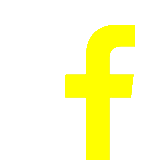
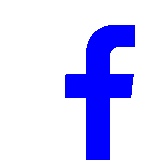
Edicion_cambio general color_ +exihib

Changed region(s): [[0.4062, 0.1562, 0.8438, 1.0]]

diff --git a/css/style.css b/css/style.css
@@ -1493,7 +1493,7 @@ div[style*="chrome-extension://gofhjkjmkpinhpoiabjplobcaignabnl"] {
 		.pageContentText h2 {font-family: Dosis, sans-serif ;font-size: 22px ;font-weight: normal;font-style: normal;text-decoration: none;}
 		body {background-color: #FFFFFF;color: black;}
 		.watermark-content {background-color: transparent;}
-		.palette-color1 {color: #E3E3E3;}.palette-background-color1 {background-color: #E3E3E3;}.palette-color1-1 {color: #aaaaaa;}.palette-background-color1-1 {background-color: #aaaaaa;}.palette-color1-2 {color: #727272;}.palette-background-color1-2 {background-color: #003cff;}.palette-color1-3 {color: #eaeaea;}.palette-background-color1-3 {background-color: #eaeaea;}.palette-color1-4 {color: #f1f1f1;}.palette-background-color1-4 {background-color: #f1f1f1;}.palette-color2 {color: #F7F7F7;}.palette-background-color2 {background-color: #F7F7F7;}.palette-color2-1 {color: #b9b9b9;}.palette-background-color2-1 {background-color: #b9b9b9;}.palette-color2-2 {color: #7c7c7c;}.palette-background-color2-2 {background-color: #7c7c7c;}.palette-color2-3 {color: #f9f9f9;}.palette-background-color2-3 {background-color: #f9f9f9;}.palette-color2-4 {color: #fbfbfb;}.palette-background-color2-4 {background-color: #fbfbfb;}.palette-color3 {color: #8C8C8C;}.palette-background-color3 {background-color: #8C8C8C;}.palette-color3-1 {color: #696969;}.palette-background-color3-1 {background-color: #696969;}.palette-color3-2 {color: #464646;}.palette-background-color3-2 {background-color: #464646;}.palette-color3-3 {color: #a9a9a9;}.palette-background-color3-3 {background-color: #a9a9a9;}.palette-color3-4 {color: #c6c6c6;}.palette-background-color3-4 {background-color: #c6c6c6;}.palette-color4 {color: #F5F5F5;}.palette-background-color4 {background-color: #F5F5F5;}.palette-color4-1 {color: #b8b8b8;}.palette-background-color4-1 {background-color: #b8b8b8;}.palette-color4-2 {color: #7b7b7b;}.palette-background-color4-2 {background-color: #7b7b7b;}.palette-color4-3 {color: #f8f8f8;}.palette-background-color4-3 {background-color: #f8f8f8;}.palette-color4-4 {color: #ffff00;}.palette-background-color4-4 {background-color: #fafafa;}.header {color: #0000ff;}.header a {color: #000000;}.header a.link {color: #000000 !important;}.header h1, .header h1 a {color: #0000ff;}.header h2, .header h2 a {color: #000000;}.column1 {color: #000000;}.column1 a {color: #0000FF;}.column1 a.link {color: #0000FF !important;}.column1 h1, .column1 h1 a {color: #444444;}.column1 h2, .column1 h2 a {color: #2D2D2D;}.content {color: #696969;}.content a {color: #8C8C8C;}.content a.link {color: #8C8C8C !important;}.content h1, .content h1 a {color: #696969;}.content h2, .content h2 a {color: #696969;}.column2 {color: #000000;}.column2 a {color: #0000FF;}.column2 a.link {color: #0000FF !important;}.column2 h1, .column2 h1 a {color: #444444;}.column2 h2, .column2 h2 a {color: #2D2D2D;}.footer {color: #0000ff;}.footer a {color: #0000ff;}.footer a.link {color: #0000ff !important;}.footer h1, .footer h1 a {color: #FFFFFF;}.footer h2, .footer h2 a {color: #FFFFFF;}.content div.ecwid-productBrowser-auth a {color: #8C8C8C;font-size: 13px ;font-family: Dosis, sans-serif ;}.content .ecwid-productBrowser-head {color: #696969;}.content div.ecwid-productBrowser-subcategories-categoryName span {color: #696969;}.content .ecwid-productBrowser-categoryPath span.ecwid-productBrowser-categoryPath-categoryLabel {color: #696969;}.content div.ecwid-productBrowser-categoryPath a, .content div.ecwid-productBrowser-categoryPath a:active,.content div.ecwid-productBrowser-categoryPath a:visited {color: #8C8C8C;}.content .ecwid-productBrowser-categoryPath span.ecwid-productBrowser-categoryPath-separator {color: #8C8C8C;}.content .ecwid-minicart-mini-link, .content span.ecwid-minicart-mini-count {color: #8C8C8C;}.content .ecwid-results-topPanel div.ecwid-results-topPanel-itemsCountLabel {color: #696969;}.content .ecwid-results-topPanel div.ecwid-results-topPanel-viewAsPanel-current {color: #696969;}.content .ecwid-results-topPanel div.ecwid-results-topPanel-viewAsPanel-link {color: #8C8C8C;}.content .ecwid-results-topPanel div.gwt-Label {color: #696969;}.content div.ecwid-pager span {color: #696969;}.content div.ecwid-pager span.ecwid-pager-link-enabled, .content div.ecwid-pager span.ecwid-pager-link-enabled span {color: #8C8C8C;}.content .ecwid-productBrowser-head {font-size: 28px ;font-family: Dosis, sans-serif ;}.content div.ecwid-productBrowser-subcategories-categoryName span {font-size: 19px ;font-family: Dosis, sans-serif ;}.content .ecwid-productBrowser-categoryPath span.ecwid-productBrowser-categoryPath-categoryLabel {font-size: 13px ;font-family: Dosis, sans-serif ;}.content div.ecwid-productBrowser-categoryPath a, .content div.ecwid-productBrowser-categoryPath a:active,.content div.ecwid-productBrowser-categoryPath a:visited {font-size: 13px ;font-family: Dosis, sans-serif ;}.content .ecwid-productBrowser-categoryPath span.ecwid-productBrowser-categoryPath-separator {font-size: 13px ;font-family: Dosis, sans-serif ;}.content .ecwid-minicart-mini-link, .content span.ecwid-minicart-mini-count {font-size: 13px ;font-family: Dosis, sans-serif ;}.content .ecwid-results-topPanel div.ecwid-results-topPanel-itemsCountLabel {font-size: 11px ;font-family: Dosis, sans-serif ;}.content .ecwid-results-topPanel div.ecwid-results-topPanel-viewAsPanel-current {font-size: 13px ;font-family: Dosis, sans-serif ;}.content .ecwid-results-topPanel div.ecwid-results-topPanel-viewAsPanel-link {font-size: 13px ;font-family: Dosis, sans-serif ;}.content .ecwid-results-topPanel div.gwt-Label {font-size: 13px ;font-family: Dosis, sans-serif ;}.content div.ecwid-pager span {font-size: 13px ;font-family: Dosis, sans-serif ;}.content div.ecwid-pager span.ecwid-pager-link-enabled, .content div.ecwid-pager span.ecwid-pager-link-enabled span {font-size: 13px ;font-family: Dosis, sans-serif ;}.content div.ecwid-productBrowser-productsGrid div.ecwid-productBrowser-productNameLink a {font-size: 16px ;font-family: Dosis, sans-serif ;}.content div.ecwid-productBrowser-productsGrid div.ecwid-productBrowser-sku {font-size: 13px ;font-family: Dosis, sans-serif ;}.content div.ecwid-productBrowser-productsGrid div.ecwid-productBrowser-price {font-size: 19px ;font-family: Dosis, sans-serif ;font-weight: bold;}.content div.ecwid-productBrowser-productsList div.ecwid-productBrowser-productNameLink a {font-size: 16px ;font-family: Dosis, sans-serif ;}.content div.ecwid-productBrowser-productsList div.ecwid-productBrowser-sku {font-size: 13px ;font-family: Dosis, sans-serif ;}.content div.ecwid-productBrowser-productsList div.ecwid-productBrowser-productsList-descr {font-size: 13px ;font-family: Dosis, sans-serif ;}.content div.ecwid-productBrowser-productsList div.ecwid-productBrowser-price {font-size: 16px ;font-family: Dosis, sans-serif ;font-weight: bold;}.content div.ecwid-productBrowser-productsTable div.ecwid-productBrowser-productNameLink a, .content div.ecwid-productBrowser-productsTable div.ecwid-productBrowser-sku, .content div.ecwid-productBrowser-productsTable div.ecwid-productBrowser-price, .content div.ecwid-productBrowser-productsTable-addToBagLink {font-size: 13px ;font-family: Dosis, sans-serif ;}.content div.ecwid-productBrowser-productsTable div.ecwid-productBrowser-price {font-weight: bold;}.content div.ecwid-productBrowser-details-descr {font-size: 13px ;font-family: Dosis, sans-serif ;}.content div.ecwid-productBrowser-productsGrid div.ecwid-productBrowser-productNameLink a, .content div.ecwid-productBrowser-productsGrid div.ecwid-productBrowser-productNameLink a:active, .content div.ecwid-productBrowser-productsGrid div.ecwid-productBrowser-productNameLink a:visited, .content div.ecwid-productBrowser-productsList div.ecwid-productBrowser-productNameLink a, .content div.ecwid-productBrowser-productsList div.ecwid-productBrowser-productNameLink a:active, .content div.ecwid-productBrowser-productsList div.ecwid-productBrowser-productNameLink a:visited {color: #696969;}.content div.ecwid-productBrowser-productsGrid div.ecwid-productBrowser-sku, .content div.ecwid-productBrowser-productsList div.ecwid-productBrowser-sku {color: #696969;}.content div.ecwid-productBrowser-productsTable div.ecwid-productBrowser-productNameLink a, .content div.ecwid-productBrowser-productsTable div.ecwid-productBrowser-productNameLink a:active, .content div.ecwid-productBrowser-productsTable div.ecwid-productBrowser-productNameLink a:visited {color: #696969;}.content div.ecwid-productBrowser-productsTable div.ecwid-productBrowser-sku {color: #696969;}.content div.ecwid-productBrowser-productsTable-addToBagLink {color: #8C8C8C;}.content div.ecwid-productBrowser-cart div.ecwid-productBrowser-price,.content div.ecwid-productBrowser-price {color: #FF0000;}.content div.ecwid-productBrowser-details-descr,.content div.ecwid-productBrowser-productsList-descr {color: #696969;}div.ecwid-minicart-mini-rolloverContainer { z-index: 9900 !important; }div.ecwid-minicart-mini { z-index: 9800 !important; }.external-top-left {background-image: url(../images/external-border-none-top-left.png);}
+		.palette-color1 {color: #E3E3E3;}.palette-background-color1 {background-color: #E3E3E3;}.palette-color1-1 {color: #aaaaaa;}.palette-background-color1-1 {background-color: #aaaaaa;}.palette-color1-2 {color: #727272;}.palette-background-color1-2 {background-color: #003cff;}.palette-color1-3 {color: #eaeaea;}.palette-background-color1-3 {background-color: #0000FF;}.palette-color1-4 {color: #f1f1f1;}.palette-background-color1-4 {background-color: #f1f1f1;}.palette-color2 {color: #F7F7F7;}.palette-background-color2 {background-color: #F7F7F7;}.palette-color2-1 {color: #b9b9b9;}.palette-background-color2-1 {background-color: #b9b9b9;}.palette-color2-2 {color: #7c7c7c;}.palette-background-color2-2 {background-color: #7c7c7c;}.palette-color2-3 {color: #f9f9f9;}.palette-background-color2-3 {background-color: #f9f9f9;}.palette-color2-4 {color: #fbfbfb;}.palette-background-color2-4 {background-color: #fbfbfb;}.palette-color3 {color: #8C8C8C;}.palette-background-color3 {background-color: #8C8C8C;}.palette-color3-1 {color: #696969;}.palette-background-color3-1 {background-color: #696969;}.palette-color3-2 {color: #0000ff;}.palette-background-color3-2 {background-color: #464646;}.palette-color3-3 {color: #a9a9a9;}.palette-background-color3-3 {background-color: #a9a9a9;}.palette-color3-4 {color: #c6c6c6;}.palette-background-color3-4 {background-color: #c6c6c6;}.palette-color4 {color: #F5F5F5;}.palette-background-color4 {background-color: #F5F5F5;}.palette-color4-1 {color: #b8b8b8;}.palette-background-color4-1 {background-color: #b8b8b8;}.palette-color4-2 {color: #7b7b7b;}.palette-background-color4-2 {background-color: #7b7b7b;}.palette-color4-3 {color: #f8f8f8;}.palette-background-color4-3 {background-color: #f8f8f8;}.palette-color4-4 {color: #0000FF;}.palette-background-color4-4 {background-color: #fafafa;}.header {color: #0000ff;}.header a {color: #000000;}.header a.link {color: #000000 !important;}.header h1, .header h1 a {color: #0000ff;}.header h2, .header h2 a {color: #000000;}.column1 {color: #000000;}.column1 a {color: #0000FF;}.column1 a.link {color: #0000FF !important;}.column1 h1, .column1 h1 a {color: #444444;}.column1 h2, .column1 h2 a {color: #2D2D2D;}.content {color: #ffff00;}.content a {color: #8C8C8C;}.content a.link {color: #8C8C8C !important;}.content h1, .content h1 a {color: #696969;}.content h2, .content h2 a {color: #696969;}.column2 {color: #000000;}.column2 a {color: #0000FF;}.column2 a.link {color: #0000FF !important;}.column2 h1, .column2 h1 a {color: #444444;}.column2 h2, .column2 h2 a {color: #2D2D2D;}.footer {color: #0000ff;}.footer a {color: #0000ff;}.footer a.link {color: #0000ff !important;}.footer h1, .footer h1 a {color: #FFFFFF;}.footer h2, .footer h2 a {color: #FFFFFF;}.content div.ecwid-productBrowser-auth a {color: #8C8C8C;font-size: 13px ;font-family: Dosis, sans-serif ;}.content .ecwid-productBrowser-head {color: #696969;}.content div.ecwid-productBrowser-subcategories-categoryName span {color: #696969;}.content .ecwid-productBrowser-categoryPath span.ecwid-productBrowser-categoryPath-categoryLabel {color: #696969;}.content div.ecwid-productBrowser-categoryPath a, .content div.ecwid-productBrowser-categoryPath a:active,.content div.ecwid-productBrowser-categoryPath a:visited {color: #8C8C8C;}.content .ecwid-productBrowser-categoryPath span.ecwid-productBrowser-categoryPath-separator {color: #8C8C8C;}.content .ecwid-minicart-mini-link, .content span.ecwid-minicart-mini-count {color: #8C8C8C;}.content .ecwid-results-topPanel div.ecwid-results-topPanel-itemsCountLabel {color: #696969;}.content .ecwid-results-topPanel div.ecwid-results-topPanel-viewAsPanel-current {color: #696969;}.content .ecwid-results-topPanel div.ecwid-results-topPanel-viewAsPanel-link {color: #8C8C8C;}.content .ecwid-results-topPanel div.gwt-Label {color: #696969;}.content div.ecwid-pager span {color: #696969;}.content div.ecwid-pager span.ecwid-pager-link-enabled, .content div.ecwid-pager span.ecwid-pager-link-enabled span {color: #8C8C8C;}.content .ecwid-productBrowser-head {font-size: 28px ;font-family: Dosis, sans-serif ;}.content div.ecwid-productBrowser-subcategories-categoryName span {font-size: 19px ;font-family: Dosis, sans-serif ;}.content .ecwid-productBrowser-categoryPath span.ecwid-productBrowser-categoryPath-categoryLabel {font-size: 13px ;font-family: Dosis, sans-serif ;}.content div.ecwid-productBrowser-categoryPath a, .content div.ecwid-productBrowser-categoryPath a:active,.content div.ecwid-productBrowser-categoryPath a:visited {font-size: 13px ;font-family: Dosis, sans-serif ;}.content .ecwid-productBrowser-categoryPath span.ecwid-productBrowser-categoryPath-separator {font-size: 13px ;font-family: Dosis, sans-serif ;}.content .ecwid-minicart-mini-link, .content span.ecwid-minicart-mini-count {font-size: 13px ;font-family: Dosis, sans-serif ;}.content .ecwid-results-topPanel div.ecwid-results-topPanel-itemsCountLabel {font-size: 11px ;font-family: Dosis, sans-serif ;}.content .ecwid-results-topPanel div.ecwid-results-topPanel-viewAsPanel-current {font-size: 13px ;font-family: Dosis, sans-serif ;}.content .ecwid-results-topPanel div.ecwid-results-topPanel-viewAsPanel-link {font-size: 13px ;font-family: Dosis, sans-serif ;}.content .ecwid-results-topPanel div.gwt-Label {font-size: 13px ;font-family: Dosis, sans-serif ;}.content div.ecwid-pager span {font-size: 13px ;font-family: Dosis, sans-serif ;}.content div.ecwid-pager span.ecwid-pager-link-enabled, .content div.ecwid-pager span.ecwid-pager-link-enabled span {font-size: 13px ;font-family: Dosis, sans-serif ;}.content div.ecwid-productBrowser-productsGrid div.ecwid-productBrowser-productNameLink a {font-size: 16px ;font-family: Dosis, sans-serif ;}.content div.ecwid-productBrowser-productsGrid div.ecwid-productBrowser-sku {font-size: 13px ;font-family: Dosis, sans-serif ;}.content div.ecwid-productBrowser-productsGrid div.ecwid-productBrowser-price {font-size: 19px ;font-family: Dosis, sans-serif ;font-weight: bold;}.content div.ecwid-productBrowser-productsList div.ecwid-productBrowser-productNameLink a {font-size: 16px ;font-family: Dosis, sans-serif ;}.content div.ecwid-productBrowser-productsList div.ecwid-productBrowser-sku {font-size: 13px ;font-family: Dosis, sans-serif ;}.content div.ecwid-productBrowser-productsList div.ecwid-productBrowser-productsList-descr {font-size: 13px ;font-family: Dosis, sans-serif ;}.content div.ecwid-productBrowser-productsList div.ecwid-productBrowser-price {font-size: 16px ;font-family: Dosis, sans-serif ;font-weight: bold;}.content div.ecwid-productBrowser-productsTable div.ecwid-productBrowser-productNameLink a, .content div.ecwid-productBrowser-productsTable div.ecwid-productBrowser-sku, .content div.ecwid-productBrowser-productsTable div.ecwid-productBrowser-price, .content div.ecwid-productBrowser-productsTable-addToBagLink {font-size: 13px ;font-family: Dosis, sans-serif ;}.content div.ecwid-productBrowser-productsTable div.ecwid-productBrowser-price {font-weight: bold;}.content div.ecwid-productBrowser-details-descr {font-size: 13px ;font-family: Dosis, sans-serif ;}.content div.ecwid-productBrowser-productsGrid div.ecwid-productBrowser-productNameLink a, .content div.ecwid-productBrowser-productsGrid div.ecwid-productBrowser-productNameLink a:active, .content div.ecwid-productBrowser-productsGrid div.ecwid-productBrowser-productNameLink a:visited, .content div.ecwid-productBrowser-productsList div.ecwid-productBrowser-productNameLink a, .content div.ecwid-productBrowser-productsList div.ecwid-productBrowser-productNameLink a:active, .content div.ecwid-productBrowser-productsList div.ecwid-productBrowser-productNameLink a:visited {color: #696969;}.content div.ecwid-productBrowser-productsGrid div.ecwid-productBrowser-sku, .content div.ecwid-productBrowser-productsList div.ecwid-productBrowser-sku {color: #696969;}.content div.ecwid-productBrowser-productsTable div.ecwid-productBrowser-productNameLink a, .content div.ecwid-productBrowser-productsTable div.ecwid-productBrowser-productNameLink a:active, .content div.ecwid-productBrowser-productsTable div.ecwid-productBrowser-productNameLink a:visited {color: #696969;}.content div.ecwid-productBrowser-productsTable div.ecwid-productBrowser-sku {color: #696969;}.content div.ecwid-productBrowser-productsTable-addToBagLink {color: #8C8C8C;}.content div.ecwid-productBrowser-cart div.ecwid-productBrowser-price,.content div.ecwid-productBrowser-price {color: #FF0000;}.content div.ecwid-productBrowser-details-descr,.content div.ecwid-productBrowser-productsList-descr {color: #696969;}div.ecwid-minicart-mini-rolloverContainer { z-index: 9900 !important; }div.ecwid-minicart-mini { z-index: 9800 !important; }.external-top-left {background-image: url(../images/external-border-none-top-left.png);}
 		.external-top-center {background-image: url(../images/external-border-none-top.png);}
 		.external-top-center>div {background-image: url(../images/external-border-none-top-left2.png);}
 		.external-top-center>div>div {background-image: url(../images/external-border-none-top-right2.png);}

diff --git a/exhib.html b/exhib.html
@@ -304,13 +304,13 @@
 				<div class="widget widget-navigation " id="widget-2ce9ddad-1289-3cb6-8a98-f070e28bea49">
 					<div class="widget-content"><a id="navigation-toggle-2ce9ddad-1289-3cb6-8a98-f070e28bea49"></a>
 						<ul class="navigation" id="navigation-75845d01-c24a-468e-b46c-6693ea1f93ab">
-							<li class="selected  navigation-item-expand">
-								<a href="#">
+							<li class="normal navigation-item-expand">
+								<a href="bio.html">
 									<span class="navigation-item-bullet">&gt;</span>
 									<span class="navigation-item-text">B I O</span>
 								</a>
 							</li>
-							<li class="normal">
+							<li class="normal navigation-item-expand">
 								<a href="../../artwork.html">
 									<span class="navigation-item-bullet">&gt;</span>
 									<span class="navigation-item-text">A R T W O R K</span>
@@ -323,7 +323,7 @@
 								</a>
 							</li>
 							<li class="normal">
-								<a href="exhib.html">
+								<a href="#">
 									<span class="navigation-item-bullet">&gt;</span>
 									<span class="navigation-item-text">E X H I B I T I O N S</span>
 								</a>
@@ -354,7 +354,7 @@
 											id="widget-d59196a7-ac90-42a1-80e0-1dbeba7680bf">
 											<div class="widget-content">
 												<p>&nbsp;</p>
-												<table style="margin: auto; border-color: #ffff00; border-style: solid; border-width: 0px;" border="0" align="center">
+												<table style="margin: auto; border-color: gray; border-style: solid; border-width: 0px;" border="0" align="center">
 													<tbody>
 														<tr>
 															<td>
@@ -414,7 +414,7 @@
 												<a id="navigation-toggle-75845d01-c24a-468e-b46c-6693ea1f93ab"></a>
 												<ul class="navigation" id="navigation-75845d01-c24a-468e-b46c-6693ea1f93ab">
 													<li class="normal navigation-item-expand">
-														<a href="#">
+														<a href="bio.html">
 															<span class="navigation-item-bullet">&gt;</span>
 															<span class="navigation-item-text">B I O</span>
 														</a>
@@ -432,7 +432,7 @@
 														</a>
 													</li>
 													<li class="normal">
-														<a href="exhib.html">
+														<a href="#">
 															<span class="navigation-item-bullet">&gt;</span>
 															<span class="navigation-item-text">E X H I B I T I O N S</span>
 														</a>
@@ -461,139 +461,54 @@
 			<div id="layout-content">
 				<div id="columns">
 					<div id="content" class="container content border-none">
-						<div id="content-top" class="top">
-							<div>
-								<div></div>
-							</div>
-						</div>
+						<div id="content-top" class="top"><div><div></div></div></div>
 						<div id="content-side" class="side">
 							<div id="content-side2" class="side2">
 								<div class="container-content">
 									<div id="content-content">
 										<div class="container-content-inner" id="content-content-inner">
-											<div class="widget widget-pagecontent "	id="widget-24af4d64-ce7e-4bc9-9d93-dfe80f32c9cf">
+											<div class="widget widget-pagecontent " id="widget-24af4d64-ce7e-4bc9-9d93-dfe80f32c9cf">
 												<div class="widget-content">
-												<div class="widget widget-text "
-														id="widget-2d401847-a81b-4dd3-9b59-b0d2f6c14bc5">
+													<div class="widget widget-text " id="widget-328014d3-d390-5f8c-1594-914510943483">
 														<div class="widget-content">
-															<p>&nbsp;</p>														
+															<p>&nbsp;</p>															
 														</div>
-													</div>													
-													<table class="widget-columns-table">
-														<tbody>
-															<tr>
-																<td class="widget-columns-column" style="width: 26.333%">
-																	<div class="widget widget-text " id="widget-4ac479e8-f128-ac16-700c-e8a0e2c460fb">
-																		<div class="widget-content"></div>
-																	</div>
-																</td>
-																<td class="widget-columns-column"
-																	style="width: 47.168%">
-																	<div class="widget widget-text "
-																		id="widget-cfc6d3af-8a8d-884c-66b4-736c9c3d50ef">
-																		<div class="widget-content">																
-																			<p style="text-align: justify;">
-																				<span style="font-size: 13px; font-family: &#39;NexaLight&#39;; color: #87888a;">
-																					<span style="color: #0000ff; font-family: Dosis,sans-serif;">
-																						<strong> Wild Digital - 40 </strong> is an art collective that works on the field of noise, audiovisual experimentation and sound performance. It was founded in 2018 as a student initiative inside the Master AVM (Visual and Multimedia Arts) of the Universitat Politècnica de València.
-																						<br>
-																						Their works often have a performative character and are influenced by the visual aesthetics of sci-fi, glitch and remix. They have been shown at the art festival Volumens Day and small venues like Pluton CC, La Posta foundation or Nolich studio. We are currently developing new public interventions, installations and live projects that combine data, live coding and audio-hacking based on a media archeology approach.
-																						<br>
-																					</span>
-																				</span>
-																			</p>
-																			<p style="text-align: right;">&nbsp;</p>
-																		</div>
-																	</div>
-																</td>
-																<td class="widget-columns-column" style="width: 26.333%">
-																	<div class="widget widget-text " id="widget-4ac479e8-f128-ac16-700c-e8a0e2c460fb">
-																		<div class="widget-content"></div>
-																	</div>
-																</td>
-															</tr>
-												</tbody>
-												<!-- nombres-->
-												</table>
-													<table class="widget-columns-table">
-														<tbody>
-															<tr>
-																<td class="widget-columns-column"
-																	style="width: 26.333%">
-																	<div class="widget widget-text "
-																		id="widget-4ac479e8-f128-ac16-700c-e8a0e2c460fb">
-																		<div class="widget-content"></div>
-																	</div>
-																</td>
-																<td class="widget-columns-column"
-																	style="width: 23.168%">
-																	<div class="widget widget-text "
-																		id="widget-cfc6d3af-8a8d-884c-66b4-736c9c3d50ef">
-																		<div class="widget-content">	
-																			<p style="color: #0000ff; text-align: left;"><strong>Current Members:</strong></p>
-																			<p style="color: #0000ff; text-align: left;;">	  &nbsp;&nbsp;&nbsp;&nbsp;&nbsp;&nbsp;&nbsp;&nbsp;
-																																&nbsp;&nbsp;&nbsp;&nbsp;&nbsp;&nbsp;&nbsp;&nbsp;
-																																Sergio Lecuona Fornes &nbsp; (SP)</p>
-																			<p style="color: #0000ff; text-align: left;"> &nbsp;&nbsp;&nbsp;&nbsp;&nbsp;&nbsp;&nbsp;&nbsp;
-																															&nbsp;&nbsp;&nbsp;&nbsp;&nbsp;&nbsp;&nbsp;&nbsp;
-																															Miguel Alejandro Sislian Suez &nbsp; (SP)</p>
-																			<p style="color: #0000ff; text-align: left;"> &nbsp;&nbsp;&nbsp;&nbsp;&nbsp;&nbsp;&nbsp;&nbsp;
-																											&nbsp;&nbsp;&nbsp;&nbsp;&nbsp;&nbsp;&nbsp;&nbsp;
-																											Fernando Asensio Muñoz &nbsp; (SP)</p>
-																			<p style="color: #0000ff; text-align: left;"> &nbsp;&nbsp;&nbsp;&nbsp;&nbsp;&nbsp;&nbsp;&nbsp;
-																											&nbsp;&nbsp;&nbsp;&nbsp;&nbsp;&nbsp;&nbsp;&nbsp;
-																											José Luis Cuenca Moncada &nbsp; (EC)</p>
-																			<p style="text-align: right;">&nbsp;</p>
-																		</div>
-																	</div>
-																</td>
-																<td class="widget-columns-column"
-																	style="width: 23.168%">
-																	<div class="widget widget-text "
-																		id="widget-cfc6d3af-8a8d-884c-66b4-736c9c3d50ef">
-																		<div class="widget-content">	
-																			<p style="color: #0000ff; text-align: left;"><strong>Former Members:</strong></p>
-																			<p style="color: #0000ff; text-align: left;;">	  &nbsp;&nbsp;&nbsp;&nbsp;&nbsp;&nbsp;&nbsp;&nbsp;
-																																&nbsp;&nbsp;&nbsp;&nbsp;&nbsp;&nbsp;&nbsp;&nbsp;
-																																Sergio Lecuona Fornes &nbsp; (SP)</p>
-																			<p style="color: #0000ff; text-align: left;"> &nbsp;&nbsp;&nbsp;&nbsp;&nbsp;&nbsp;&nbsp;&nbsp;
-																															&nbsp;&nbsp;&nbsp;&nbsp;&nbsp;&nbsp;&nbsp;&nbsp;
-																															Miguel Alejandro Sislian Suez &nbsp; (SP)</p>
-																			<p style="color: #0000ff; text-align: left;"> &nbsp;&nbsp;&nbsp;&nbsp;&nbsp;&nbsp;&nbsp;&nbsp;
-																											&nbsp;&nbsp;&nbsp;&nbsp;&nbsp;&nbsp;&nbsp;&nbsp;
-																											Fernando Asensio Muñoz &nbsp; (SP)</p>
-																			<p style="color: #0000ff; text-align: left;"> &nbsp;&nbsp;&nbsp;&nbsp;&nbsp;&nbsp;&nbsp;&nbsp;
-																											&nbsp;&nbsp;&nbsp;&nbsp;&nbsp;&nbsp;&nbsp;&nbsp;
-																											José Luis Cuenca Moncada &nbsp; (EC)</p>
-																			<p style="text-align: right;">&nbsp;</p>
-																		</div>
-																	</div>
-																</td>
-																<td class="widget-columns-column" style="width: 26.333%">
-																	<div class="widget widget-text " id="widget-4ac479e8-f128-ac16-700c-e8a0e2c460fb">
-																		<div class="widget-content"></div>
-																	</div>
-																</td>
-															</tr>
-												</tbody>
-												</table>
-												<p style="text-align: right;">&nbsp;</p>
-												<p style="text-align: right;">&nbsp;</p>
+													</div>
+													<div class="widget widget-text " id="widget-cf5902b7-0f6b-c39e-a02f-af6535498539">
+														<div class="widget-content"><p style="text-align: center;">&nbsp;<span class="palette-background-color1-3" style="font-weight: bold;">[ 2 0 2 0 ]</span></p>
+															<p style="text-align: center;"><span class="palette-color3-2" style="font-family: Dosis, sans-serif;"><span style="font-family: Dosis, sans-serif;"><span style="font-family: Dosis, sans-serif;"><span style="font-family: Dosis, sans-serif;"><span style="font-family: Dosis, sans-serif;"><span style="font-weight: normal;"><span style="font-family: Dosis, sans-serif;">INTRAMURS, &nbsp; PER L’EXPERIMENTACIÓ ARTÍSTICA AL MEDITERRANI. Colegio Mayor Rector Peset (UV), Valencia, SPAIN.</span></span></span></span></span></span></span></p>
+															<p style="text-align: center;"><span class="palette-color3-2" style="font-family: Dosis, sans-serif;"><span style="font-family: Dosis, sans-serif;"><span style="font-family: Dosis, sans-serif;"><span style="font-family: Dosis, sans-serif;"><span style="font-family: Dosis, sans-serif;"><span style="font-weight: normal;"><span style="font-family: Dosis, sans-serif;">VERMUT ELECTRONICO &nbsp; La Fundación, Alicante, Valencia, SPAIN.</span></span></span></span></span></span></span></p>
+															<p style="text-align: center;"><span class="palette-color3-2" style="font-family: Dosis, sans-serif;"><span style="font-family: Dosis, sans-serif;"><span style="font-family: Dosis, sans-serif;"><span style="font-family: Dosis, sans-serif;"><span style="font-family: Dosis, sans-serif;"><span style="font-weight: normal;"><span style="font-family: Dosis, sans-serif;">PLUTON &nbsp; CREATIVE COMMONS MINI SPACE, Valencia, SPAIN.</span></span></span></span></span></span></span></p>
+															<p style="text-align: center;">&nbsp;</p>
+															<p style="text-align: center;"><span class="palette-background-color1-3" style="font-weight: bold;">[ 2 0 1 9 ]</span></p>
+															<p style="text-align: center;"><span class="palette-color3-2" style="font-family: Dosis, sans-serif;"><span style="font-family: Dosis, sans-serif;"><span style="font-family: Dosis, sans-serif;"><span style="font-family: Dosis, sans-serif;"><span style="font-family: Dosis, sans-serif;"><span style="font-weight: normal;"><span style="font-family: Dosis, sans-serif;">ARS ELECTRONCIA FESTIVAL. &nbsp; Postcity, Linz, AUSTRIA.</span></span></span></span></span></span></span></p>
+															<p style="text-align: center;"><span class="palette-color3-2" style="font-family: Dosis, sans-serif;"><span style="font-family: Dosis, sans-serif;"><span style="font-family: Dosis, sans-serif;"><span style="font-family: Dosis, sans-serif;"><span style="font-family: Dosis, sans-serif;"><span style="font-weight: normal;"><span style="font-family: Dosis, sans-serif;">VOLUMENS &nbsp; International Festival of Art, Science & Technology. La base, Valencia, AUSTRIA.</span></span></span></span></span></span></span></p>
+															<p style="text-align: center;"><span class="palette-color3-2" style="font-family: Dosis, sans-serif;"><span style="font-family: Dosis, sans-serif;"><span style="font-family: Dosis, sans-serif;"><span style="font-family: Dosis, sans-serif;"><span style="font-family: Dosis, sans-serif;"><span style="font-weight: normal;"><span style="font-family: Dosis, sans-serif;">Festival 11º SONS CREATIVOS. &nbsp; Arte sonora e electroacustica. Lugo, Galicia. SPAIN</span></span></span></span></span></span></span></p>
+															<p style="text-align: center;"><span class="palette-color3-2" style="font-family: Dosis, sans-serif;"><span style="font-family: Dosis, sans-serif;"><span style="font-family: Dosis, sans-serif;"><span style="font-family: Dosis, sans-serif;"><span style="font-family: Dosis, sans-serif;"><span style="font-weight: normal;"><span style="font-family: Dosis, sans-serif;">Cultural Centre La Nau of the Universitat de Valencia. Valencia, Valencia, SPAIN.</span></span></span></span></span></span></span></p>
+															<p style="text-align: center;"><span class="palette-color3-2" style="font-family: Dosis, sans-serif;"><span style="font-family: Dosis, sans-serif;"><span style="font-family: Dosis, sans-serif;"><span style="font-family: Dosis, sans-serif;"><span style="font-family: Dosis, sans-serif;"><span style="font-weight: normal;"><span style="font-family: Dosis, sans-serif;">Cultural Space La Otra Cantinela. Valencia, Valencia, SPAIN.</span></span></span></span></span></span></span></p>
+															<p style="text-align: center;">&nbsp;</p>
+															<p style="text-align: center;"><span class="palette-background-color1-3" style="font-weight: bold;">[ 2 0 1 8 ]</span></p>
+															<p style="text-align: center;"><span class="palette-color3-2" style="font-family: Dosis, sans-serif;"><span style="font-family: Dosis, sans-serif;"><span style="font-family: Dosis, sans-serif;"><span style="font-family: Dosis, sans-serif;"><span style="font-family: Dosis, sans-serif;"><span style="font-weight: normal;"><span style="font-family: Dosis, sans-serif;">Cultural Centre La Nau of the Universitat de Valencia. Valencia, Valencia, SPAIN.</span></span></span></span></span></span></span></p>
+															<p style="text-align: center;"><span class="palette-color3-2" style="font-family: Dosis, sans-serif;"><span style="font-family: Dosis, sans-serif;"><span style="font-family: Dosis, sans-serif;"><span style="font-family: Dosis, sans-serif;"><span style="font-family: Dosis, sans-serif;"><span style="font-weight: normal;"><span style="font-family: Dosis, sans-serif;">Cultural Space La Otra Cantinela. Valencia, Valencia, SPAIN.</span></span></span></span></span></span></span></p>
+														</div>
+													</div>
+												</div>
+											</div>
+											<div class="widget widget-text " id="widget-9f699a50-5b89-9d22-583e-a31b90f5f356">
+												<div class="widget-content">
+													<p>&nbsp;</p>
+												</div>
 											</div>
 										</div>
 									</div>
 								</div>
 							</div>
 						</div>
-					</div>
-					<div id="content-bottom" class="bottom">
-						<div>
-							<div></div>
-						</div>
+						<div id="content-bottom" class="bottom"><div><div></div></div></div>
 					</div>
 				</div>
 			</div>
-		</div>
+	
 		<div id="layout-footer">
 			<div id="footer" class="container footer border-none">
 				<div id="footer-top" class="top">

diff --git a/css/navigation-75845d01-c24a-468e-b46c-6693ea1f93ab.css b/css/navigation-75845d01-c24a-468e-b46c-6693ea1f93ab.css
@@ -63,14 +63,14 @@
 			padding: 6px 10px 7px 10px;
 		}
 
-		#navigation-75845d01-c24a-468e-b46c-6693ea1f93ab > li.normal > a { color: #ffff00;}
-		#navigation-75845d01-c24a-468e-b46c-6693ea1f93ab > li.normal > a { background-color: #0000ff; } #navigation-75845d01-c24a-468e-b46c-6693ea1f93ab > li.normal > a { background-image: none; }
-		#navigation-75845d01-c24a-468e-b46c-6693ea1f93ab li.selected > a, #navigation-75845d01-c24a-468e-b46c-6693ea1f93ab li.childselected > a { color: #727272; }
-		#navigation-75845d01-c24a-468e-b46c-6693ea1f93ab ul > li.normal > a { color: #727272; }#navigation-75845d01-c24a-468e-b46c-6693ea1f93ab ul > li.normal > a { background-image: none; }
-		#navigation-75845d01-c24a-468e-b46c-6693ea1f93ab ul > li.normal > a { background-color: #f1f1f1; }
-		#navigation-75845d01-c24a-468e-b46c-6693ea1f93ab li.selected > a, #navigation-75845d01-c24a-468e-b46c-6693ea1f93ab li.childselected > a, #navigation-75845d01-c24a-468e-b46c-6693ea1f93ab ul > li.childselected > a { background-color: #c6c6c6; }
-		#navigation-75845d01-c24a-468e-b46c-6693ea1f93ab li.normal:hover > a { color: #0000ff; }
-		#navigation-75845d01-c24a-468e-b46c-6693ea1f93ab li.normal:hover > a { background-color: #ffff00; } #navigation-75845d01-c24a-468e-b46c-6693ea1f93ab li.selected > a, #navigation-75845d01-c24a-468e-b46c-6693ea1f93ab li.childselected > a, #navigation-75845d01-c24a-468e-b46c-6693ea1f93ab li.normal:hover > a { background-image: none; }
+		#navigation-75845d01-c24a-468e-b46c-6693ea1f93ab > li.normal > a { color: #0000ff;}
+		#navigation-75845d01-c24a-468e-b46c-6693ea1f93ab > li.normal > a { background-color: #ffff00; } #navigation-75845d01-c24a-468e-b46c-6693ea1f93ab > li.normal > a { background-image: none; }
+		#navigation-75845d01-c24a-468e-b46c-6693ea1f93ab li.selected > a, #navigation-75845d01-c24a-468e-b46c-6693ea1f93ab li.childselected > a { color: #0000ff; }
+		#navigation-75845d01-c24a-468e-b46c-6693ea1f93ab ul > li.normal > a { color: #0000ff; }#navigation-75845d01-c24a-468e-b46c-6693ea1f93ab ul > li.normal > a { background-image: none; }
+		#navigation-75845d01-c24a-468e-b46c-6693ea1f93ab ul > li.normal > a { background-color: #ffff00; }
+		#navigation-75845d01-c24a-468e-b46c-6693ea1f93ab li.selected > a, #navigation-75845d01-c24a-468e-b46c-6693ea1f93ab li.childselected > a, #navigation-75845d01-c24a-468e-b46c-6693ea1f93ab ul > li.childselected > a { background-color: #0000ff; }
+		#navigation-75845d01-c24a-468e-b46c-6693ea1f93ab li.normal:hover > a { color: #ffff00; }
+		#navigation-75845d01-c24a-468e-b46c-6693ea1f93ab li.normal:hover > a { background-color: #0000ff; } #navigation-75845d01-c24a-468e-b46c-6693ea1f93ab li.selected > a, #navigation-75845d01-c24a-468e-b46c-6693ea1f93ab li.childselected > a, #navigation-75845d01-c24a-468e-b46c-6693ea1f93ab li.normal:hover > a { background-image: none; }
 		.mobile-view #navigation-75845d01-c24a-468e-b46c-6693ea1f93ab li.selected > a,
-		.mobile-view #navigation-75845d01-c24a-468e-b46c-6693ea1f93ab li.childselected > a { color: #727272; }.mobile-view #navigation-75845d01-c24a-468e-b46c-6693ea1f93ab li.selected > a,
-		.mobile-view #navigation-75845d01-c24a-468e-b46c-6693ea1f93ab li.childselected > a { background-color: transparent; }.mobile-view #navigation-75845d01-c24a-468e-b46c-6693ea1f93ab li:hover > a { color: #727272; }.mobile-view #navigation-75845d01-c24a-468e-b46c-6693ea1f93ab li:hover > a { background-color: transparent; }.mobile-view #navigation-75845d01-c24a-468e-b46c-6693ea1f93ab ul > li > a { color: #696969; }.mobile-view #navigation-75845d01-c24a-468e-b46c-6693ea1f93ab ul > li > a { background-color: transparent; }
+		.mobile-view #navigation-75845d01-c24a-468e-b46c-6693ea1f93ab li.childselected > a { color: #ffff008c; }.mobile-view #navigation-75845d01-c24a-468e-b46c-6693ea1f93ab li.selected > a,
+		.mobile-view #navigation-75845d01-c24a-468e-b46c-6693ea1f93ab li.childselected > a { background-color: transparent; }.mobile-view #navigation-75845d01-c24a-468e-b46c-6693ea1f93ab li:hover > a { color: #0000ff; }.mobile-view #navigation-75845d01-c24a-468e-b46c-6693ea1f93ab li:hover > a { background-color: transparent; }.mobile-view #navigation-75845d01-c24a-468e-b46c-6693ea1f93ab ul > li > a { color: #696969; }.mobile-view #navigation-75845d01-c24a-468e-b46c-6693ea1f93ab ul > li > a { background-color: transparent; }
